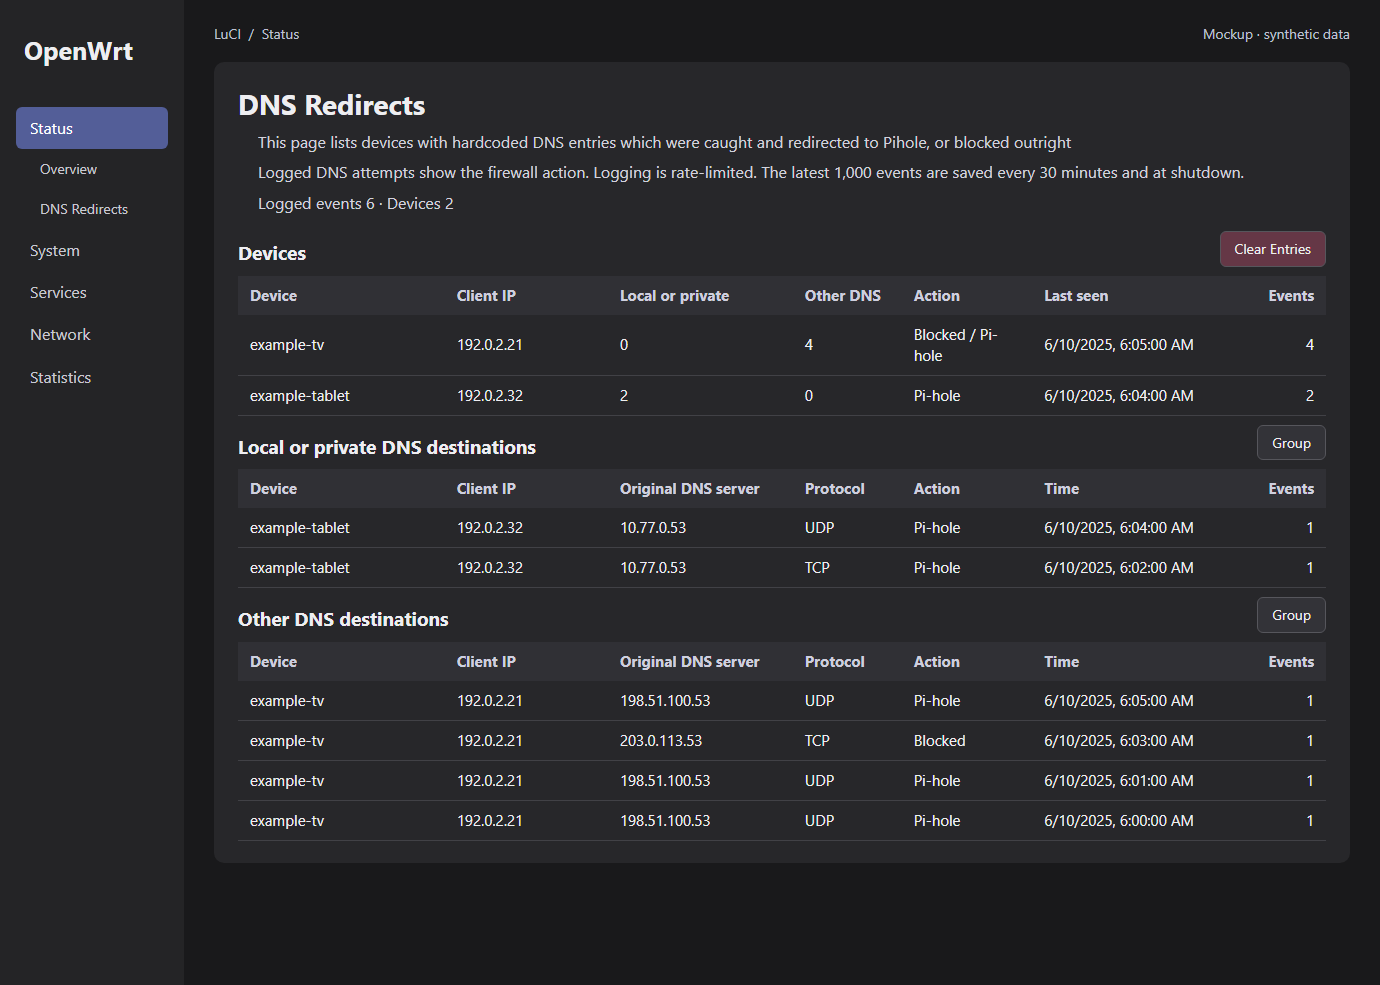
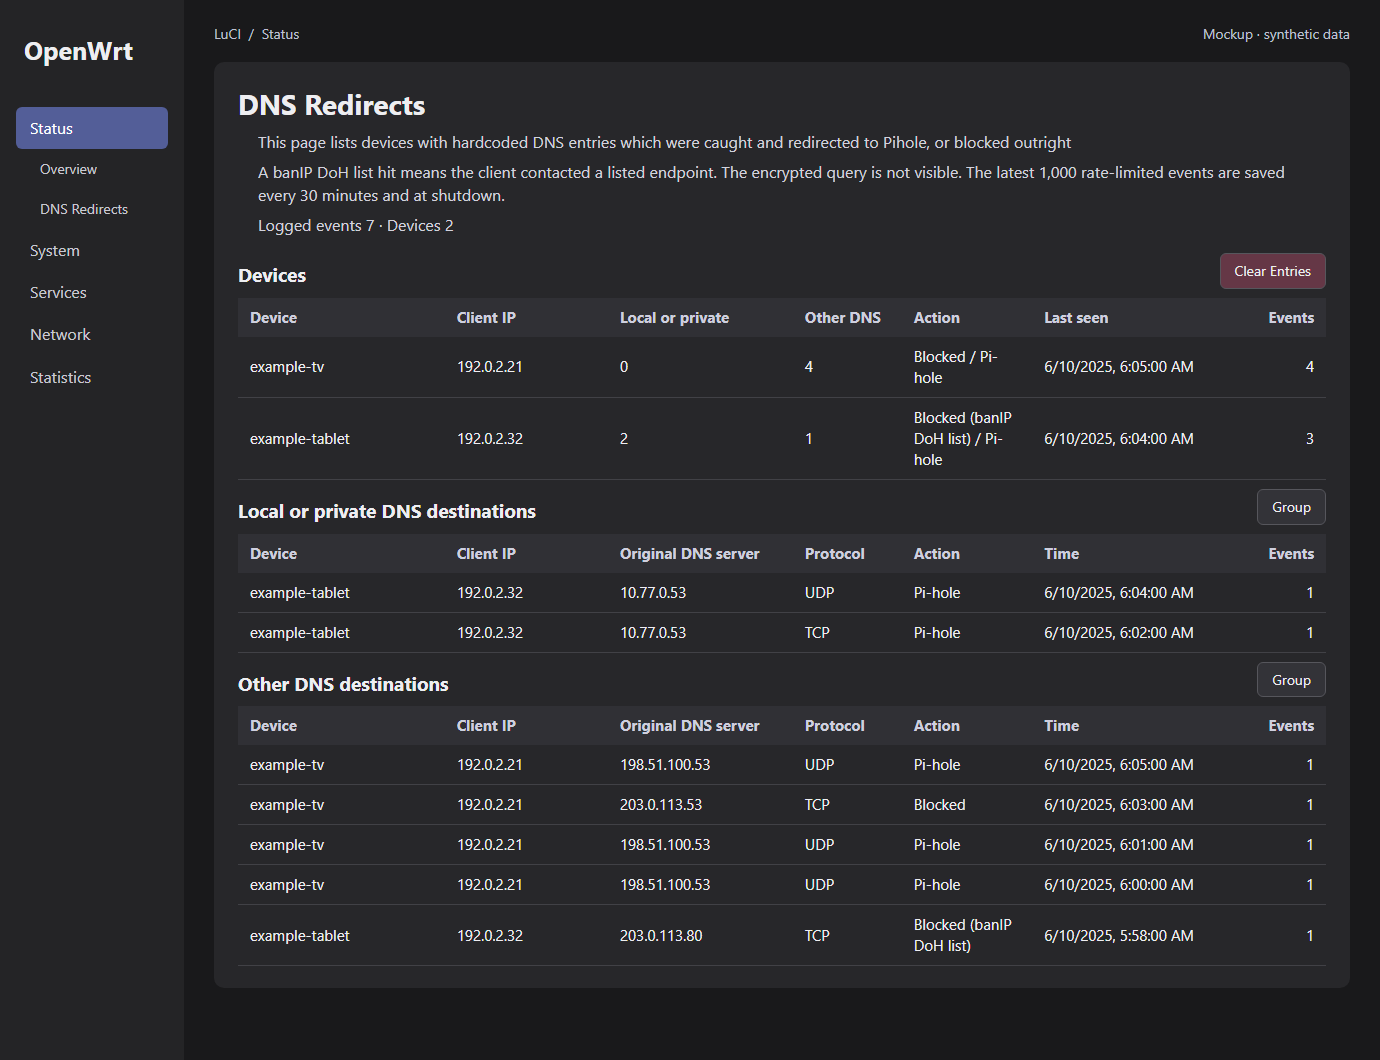
Report outbound banIP DoH feed blocks in DNS Redirects

diff --git a/argon-tweak/files/www/luci-static/resources/view/status/dns-redirects-layout.js b/argon-tweak/files/www/luci-static/resources/view/status/dns-redirects-layout.js
@@ -38,6 +38,7 @@ function isLocalDestination(ip) {
 }
 
 function actionLabel(action) {
+	if (action === 'banip_doh') return _('Blocked (banIP DoH list)');
 	return action === 'pihole' ? _('Pi-hole') : action === 'blocked' ? _('Blocked') : '—';
 }
 
@@ -198,7 +199,7 @@ return view.extend({
 			E('h2', {}, _('DNS Redirects')),
 			E('div', { style: 'padding-inline-start: 1.25rem' }, [
 				E('p', {}, _('This page lists devices with hardcoded DNS entries which were caught and redirected to Pihole, or blocked outright')),
-				E('p', {}, _('Logged DNS attempts show the firewall action. Logging is rate-limited. The latest 1,000 events are saved every 30 minutes and at shutdown.')),
+				E('p', {}, _('A banIP DoH list hit means the client contacted a listed endpoint. The encrypted query is not visible. The latest 1,000 rate-limited events are saved every 30 minutes and at shutdown.')),
 				status
 			]),
 			devicesHeading,

diff --git a/argon-tweak/install-prompt.md b/argon-tweak/install-prompt.md
@@ -3,7 +3,7 @@
 Copy the text below into your preferred LLM.
 
 ```text
-Help me install luci-theme-argon-tweak v3.1.4.4. Start here in chat. Use the official release archive at https://api.github.com/repositories/1466932324/tarball/v3.1.4.4 and its argon-tweak/README.md installation reference. Assume Argon is the theme for this setup and its plugin layout audit. First ask me where I can find each item on MY network. Ask a small group of related questions at a time and wait for my answer. If I am unsure, show me a read-only LuCI screen or a narrow local command. Accept "skip" for optional features.
+Help me install luci-theme-argon-tweak v3.1.4.5. Start here in chat. Use the official release archive at https://api.github.com/repositories/1466932324/tarball/v3.1.4.5 and its argon-tweak/README.md installation reference. Assume Argon is the theme for this setup and its plugin layout audit. First ask me where I can find each item on MY network. Ask a small group of related questions at a time and wait for my answer. If I am unsure, show me a read-only LuCI screen or a narrow local command. Accept "skip" for optional features.
 
 1. Where is my router, which OpenWrt, LuCI and Argon versions does it run, and how could I reach it if LuCI went offline?
 2. Where in Network > Interfaces and Devices can I identify WAN, LAN, bridges, VLANs, secondary LANs, VPNs and guests? Which networks share a device and which carry a default route? Confirm any ambiguous roles with me.
@@ -18,6 +18,7 @@ Then ask which DNS protections I want to install. Offer each independently, incl
 - Advertise the approved resolver by DHCP. For clients with hardcoded DNS, redirect both TCP and UDP port 53 or reject external DNS, according to my preference.
 - Block external DNS over TLS on TCP 853 and DNS over QUIC on UDP 853.
 - Install banIP and luci-app-banip if needed and enable an outbound IP feed for known DoH endpoints. Explain the coverage limits and shared-IP tradeoff. Use domain feeds in Pi-hole and IP feeds in banIP.
+- If I want banIP DoH hits in DNS Redirects, enable rate-limited outbound logging in banIP and reload it. Restart the DNS Redirects collector after upgrading, then verify a listed endpoint produces the “Blocked (banIP DoH list)” action for the test client.
 - Enable the DNS Redirects collector and rate-limited logging for DNS attempts. Use the guide’s distinct log prefixes for Pi-hole redirects and DNS blocks, and verify the Action column for each policy I selected.
 
 For my choices, confirm the approved resolver, its upstream path, the selected client LANs/VLANs, IPv4/IPv6 use, and VPN or device exceptions. Check whether clients actually send the traffic through this router. Account for the return path to a resolver on the same LAN and preserve its ability to resolve upstream. Check installed packages, the OpenWrt release, firewall backend and available package manager before giving installation commands. Give only the steps for my selections, name the device where each step runs, and provide a rollback for each policy change separately from the overlay rollback.

diff --git a/argon-tweak/README.md b/argon-tweak/README.md
@@ -1,6 +1,6 @@
 # luci-theme-argon-tweak installation
 
-Paste the [installation prompt](install-prompt.md) into your LLM assistant to begin. The assistant uses this reference to check compatibility, plan the installation with you and verify the result. Release 3.1.4.4 targets OpenWrt 25.12 LuCI and Argon 3.1.4.
+Paste the [installation prompt](install-prompt.md) into your LLM assistant to begin. The assistant uses this reference to check compatibility, plan the installation with you and verify the result. Release 3.1.4.5 targets OpenWrt 25.12 LuCI and Argon 3.1.4.
 
 When upgrading from an earlier project name, copy your existing overlay settings to `/etc/config/argon-tweak` before installation. Update any existing DNS logging rule to use the prefix in the DNS Redirects section and restart the collector after installation. Fresh installs can skip this step.
 
@@ -30,6 +30,8 @@ Open **Status → Firewall Summary** and select **Refresh** to read the active n
 Open **Status → DNS Redirects** to identify clients sending plain DNS to an unexpected resolver. **Devices** shows each client's latest activity and counts for local/private and other DNS destinations. The two event tables show time, device, client IP, original DNS server and TCP or UDP. Use **Group** to combine repeated attempts by client, destination and protocol. **Clear Entries** asks for confirmation and clears saved history as well.
 
 The **Action** column shows **Pi-hole** for a logged DNS redirect and **Blocked** for a logged reject or drop. A device can show both. Grouped rows keep the actions separate even when the client, destination and protocol match. A dash means that the saved event predates action tracking. Use Pi-hole’s query log for domain names and Pi-hole’s own filtering decisions.
+
+**Blocked (banIP DoH list)** identifies a packet rejected by the outbound banIP DoH feed. To enable it, select the DoH feed in banIP, enable outbound logging with a nonzero log rate limit, reload banIP, and restart the DNS Redirects collector after upgrading. banIP logs outbound hits across its active feeds; this page selects only the exact `doh.v4` and `doh.v6` reject messages. The client and destination are visible, while the encrypted contents remain private. Counts represent logged packets, so retries can produce multiple entries. Collection starts when logging is enabled.
 
 Use the exact log prefix `argon-tweak-dns-redirect: ` on the match leading to Pi-hole destination NAT, and `argon-tweak-dns-block: ` on the match leading to a DNS rejection or drop. Include the trailing space. The collector accepts TCP/UDP port 53 and blocked port 853 events, including IPv6. Apply rate limiting to logging only so every matching packet still reaches the enforcement rule. The collector keeps the latest 1,000 logged events and checkpoints every 30 minutes and on clean shutdown. Start it on the router:
 

diff --git a/README.md b/README.md
@@ -5,12 +5,12 @@
 **Copy this prompt into your LLM assistant to start setup.**
 
 ```text
-Help me install luci-theme-argon-tweak v3.1.4.4. Read argon-tweak/install-prompt.md in the official release at https://api.github.com/repositories/1466932324/tarball/v3.1.4.4 and follow it with me. Start by asking about my router and the features I want. Show me the plan and wait for my approval before changing anything.
+Help me install luci-theme-argon-tweak v3.1.4.5. Read argon-tweak/install-prompt.md in the official release at https://api.github.com/repositories/1466932324/tarball/v3.1.4.5 and follow it with me. Start by asking about my router and the features I want. Show me the plan and wait for my approval before changing anything.
 ```
 
 If your assistant cannot open the archive, [copy the full setup prompt](argon-tweak/install-prompt.md) into the chat. The assistant guides installation and verification, or performs them with authorized router access.
 
-Release **v3.1.4.4** targets OpenWrt 25.12 and Argon 3.1.4. [Installation reference](argon-tweak/README.md)
+Release **v3.1.4.5** targets OpenWrt 25.12 and Argon 3.1.4. [Installation reference](argon-tweak/README.md)
 
 ### What the tweaks do
 
